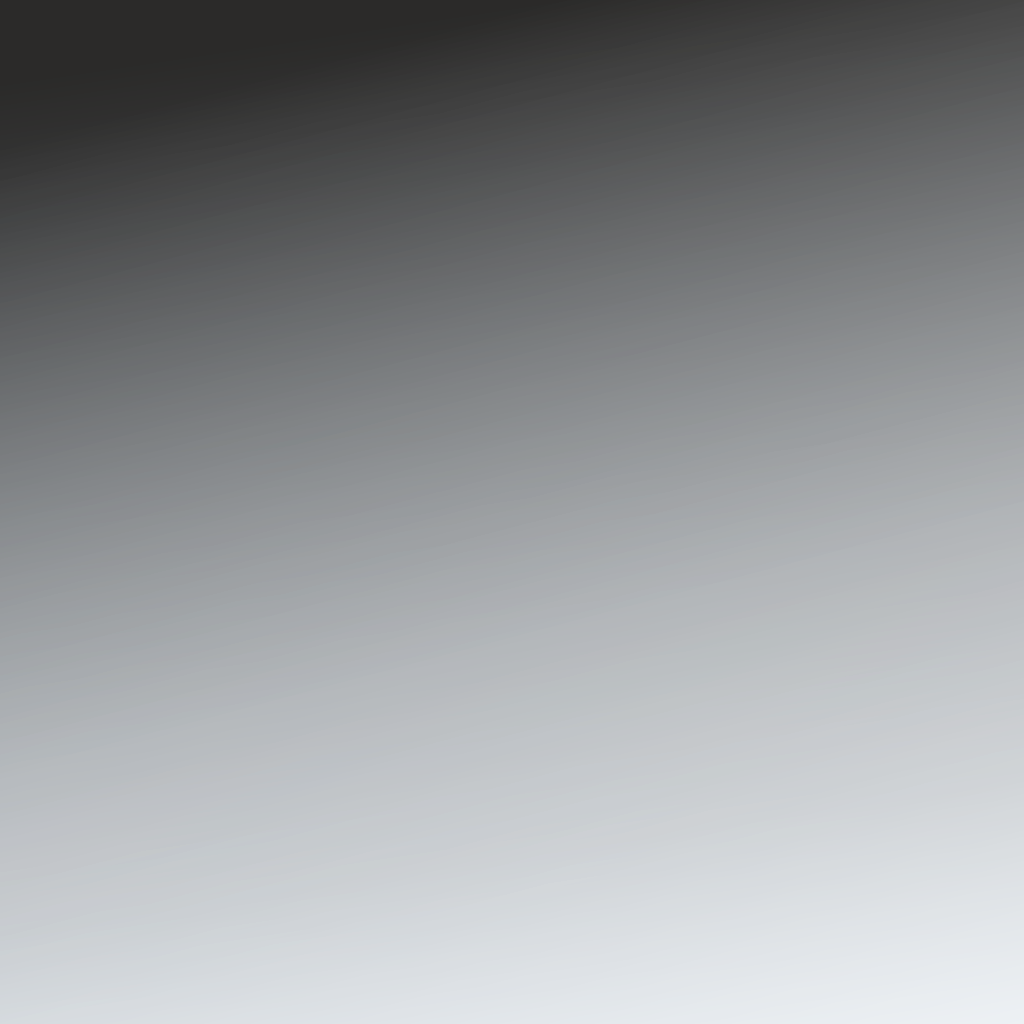
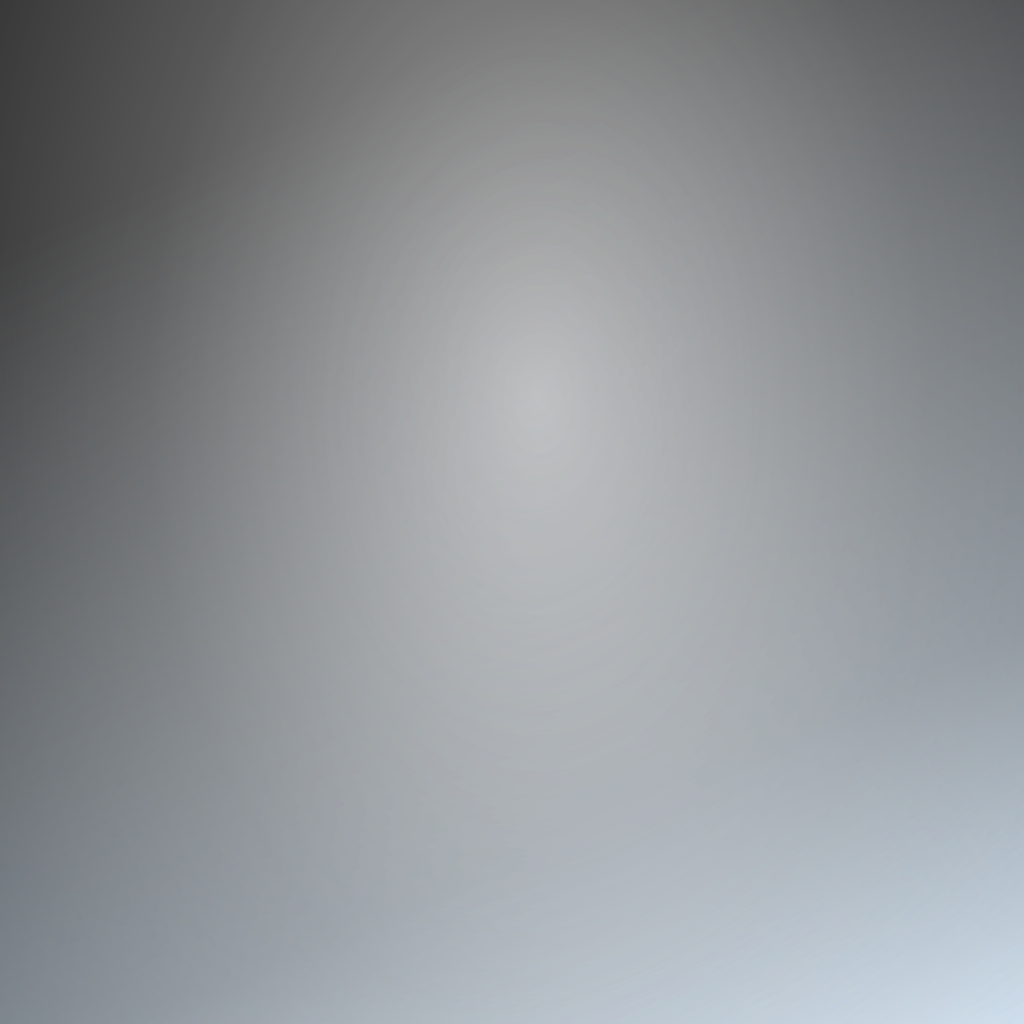
tweaks

diff --git a/window_main/index.css b/window_main/index.css
@@ -56,16 +56,16 @@ span i {
     margin-top: 12px;
     margin-bottom: 12px;
     cursor: pointer;
-    width: 160px;
+    width: 200px;
     height: 32px;
-    border-radius: 6px;
-    color: rgb(99, 79, 53);
+    border-radius: 3px;
+    color: #fae5d2;
     font-size: 18px;
     text-align: center;
     line-height: 32px;
-    border: 1px solid rgba(145, 115, 75, 1);
-    background-color: rgb(195, 172, 130);
-    box-shadow: 0px 2px 5px 0px rgba(0, 0, 0, 0.8);
+    border: 1px solid rgba(250, 226, 210, 0.5);
+    background-color: rgba(145, 121, 97, 0.4);
+    /* box-shadow: 0px 2px 5px 0px rgba(0, 0, 0, 0.8); */
     -webkit-transition: all .1s ease-in;
 }
 
@@ -88,14 +88,15 @@ span i {
 }
 
 .button_simple:hover {
-    background-color: rgb(220, 195, 150);
-    box-shadow: 0px 4px 10px 0px rgba(0, 0, 0, 0.5);
+    background-color: rgba(145, 121, 97, 1);
+    box-shadow: 0px 6px 15px 0px rgba(0, 0, 0, 0.3);
+    border: 1px solid rgba(250, 226, 210, 1);
 }
 
 .button_simple:active {
-    background-color: rgb(220, 195, 150);
+    background-color: rgba(145, 121, 97, 1);
     line-height: 34px;
-    box-shadow: 0px 2px 5px 0px rgba(0, 0, 0, 0.8);
+    box-shadow: 0px 3px 8px 0px rgba(0, 0, 0, 0.6);
 }
 
 .top_username {
@@ -153,6 +154,7 @@ span i {
     background-repeat: no-repeat;
     background-image: url(../images/nav_hover.png);
     -webkit-transition: all .2s ease-in-out;
+    border-bottom: solid 1px rgba(210, 231, 250, 0);
 }
 
 .top_nav_item:hover {
@@ -638,12 +640,14 @@ span i {
 
 .inventory_card_settings_img {
     -webkit-border-radius: 4.75% / 3.5%;
+    box-shadow: 0 5px 14px 2px rgba(0, 0, 0, 0.25);
 }
 
 
 .inventory_card_img {
     cursor: pointer;
     -webkit-border-radius: 4.75% / 3.5%;
+    box-shadow: 0 5px 14px 2px rgba(0, 0, 0, 0.25);
 }
 
 .inventory_card_img:hover {
@@ -869,16 +873,20 @@ span i {
 }
 
 .input_container input {
+    background-color: rgba(145, 121, 97, 0.35);
+    border: 1px solid rgba(250, 229, 210, 0.5);
     display: inline-table;
     margin-left: 16px;
     border-radius: 5px;
-    border-style: hidden;
+    /* border-style: hidden; */
+    color: #fae5d2;
     height: 24px;
     width: 100%;
     font-size: 14px;
     user-select: none;
     font-family: Mplantin;
     padding-left: 4px;
+}
 }
 
 .input_container input:focus {
@@ -909,6 +917,7 @@ span i {
     cursor: pointer;
     font-size: 16px;
     user-select: none;
+    -webkit-transition: all .15s ease-in-out;
 }
 
 .check_container_but {
@@ -949,17 +958,20 @@ span i {
     left: 0;
     height: 20px;
     width: 20px;
-    background-color: #eee;
+    background-color: rgba(145, 121, 97, 0);
+    border: 1px solid rgba(250, 229, 210, 0.5);
+    -webkit-transition: all .15s ease-in-out;
 }
 
 /* On mouse-over, add a grey background color */
 .check_container:hover input ~ .checkmark {
-    background-color: #ccc;
+    background-color: rgba(145, 121, 97, 0.5);
+    border: 1px solid rgba(250, 229, 210, 1);
 }
 
 /* When the checkbox is checked, add a blue background */
 .check_container input:checked ~ .checkmark {
-    background-color: rgba(145, 115, 75, 1);
+    background-color: rgba(145, 121, 97, 1);
 }
 
 /* Create the checkmark/indicator (hidden when not checked) */
@@ -1177,7 +1189,8 @@ span i {
     margin: auto;
     width: 400px;
     height: 160px;
-    background-color: rgba(115, 93, 73, 1);
+    background-color: rgba(145, 121, 97, 0.5);
+    border: 1px solid rgba(250, 229, 210, 0.5);
     border-radius: 5px;
     box-shadow: 0px 2px 16px 0px black;
     -webkit-transition: all .15s cubic-bezier(1, 0.35, 0.35, 1);
@@ -1337,7 +1350,8 @@ span i {
     right: 0;
     bottom: 0;
     left: 0;
-    background-color:  #917961;
+    background-color: rgba(145, 121, 97, 0.2);
+    border: 1px solid rgba(250, 229, 210, 0.5);
     padding: 8px 15px;
     -webkit-transition: all .25s cubic-bezier(0.2, 0.5, 0.35, 1);
 }
@@ -1354,12 +1368,14 @@ span i {
 }
 
 .select-styled:hover {
-    background-color: rgba(250, 229, 210, 0.66);
+    background-color: rgba(145, 121, 97, 0.5);
+    border: 1px solid rgba(250, 229, 210, 1);
 }
 
 .select-styled:active, .select-styled.active {
     border-radius: 6px 6px 0px 0px;
-    background-color: rgba(250, 229, 210, 0.66);
+    border-bottom: 0px;
+    background-color: rgba(145, 121, 97, .5);
 }
 
 
@@ -1369,7 +1385,7 @@ span i {
 }
 
 .select-options {
-    display: none; 
+    display: none;
     position: absolute;
     top: 100%;
     right: 0;
@@ -1378,7 +1394,9 @@ span i {
     margin: 0;
     padding: 0;
     list-style: none;
-    background-color: rgb(115,93,73);
+    background-color: hsla(29, 22%, 30%, 1);
+    border: 1px solid rgba(250, 229, 210, 0.5);
+    border-top: 0px;
     box-shadow: rgba(0, 0, 0, 0.25) 0px 10px 16px 0px;
 }
 
@@ -1386,12 +1404,12 @@ span i {
     margin: 0;
     padding: 7px 0;
     text-indent: 15px;
-    border-top: 1px solid rgb(99, 79, 53);
+    border-top: 1px solid rgba(145, 121, 97, 0.5);
     -webkit-transition: all .25s cubic-bezier(0.2, 0.5, 0.35, 1);
 }
 
 .select-options li:hover {
-    background: rgba(250, 229, 210, 0.66);
+    background: rgba(250, 229, 210, 0.5);
 }
 
 .select-options li[rel="hide"] {
@@ -1408,7 +1426,7 @@ span i {
     text-align: center;
     line-height: 30px;
     width: 190px;
-    border-radius: 4px;
+    border-radius: 3px;
     z-index: 100;
     height: 30px;
     box-shadow: 0 4px 6px 0px rgba(0, 0, 0, 0.3);

diff --git a/window_main/renderer.js b/window_main/renderer.js
@@ -1067,7 +1067,7 @@ function open_deck(i, type) {
 	if (cardsDb.get(tileGrpid).dfc == 'DFC_Front')	dfc = 'b';
 	if (cardsDb.get(tileGrpid).dfc == 'SplitHalf')	dfc = 'a';
 
-	top.css("background-image", "url(https://img.scryfall.com/cards/art_crop/en/"+get_set_scryfall(cardsDb.get(tileGrpid).set)+"/"+cardsDb.get(tileGrpid).cid+dfc+".jpg)");
+	$('.main_wrapper').css("background-image", "url(https://img.scryfall.com/cards/art_crop/en/"+get_set_scryfall(cardsDb.get(tileGrpid).set)+"/"+cardsDb.get(tileGrpid).cid+dfc+".jpg)");
 	var fld = $('<div class="flex_item"></div>');
 
 	var dl = $('<div class="decklist"></div>');
@@ -1453,7 +1453,7 @@ function open_draft(id, tileGrpid, set) {
 	var top = $('<div class="decklist_top"><div class="button back"></div><div class="deck_name">'+set+' Draft</div></div>');
 	flr = $('<div class="flex_item" style="align-self: center;"></div>');
 	top.append(flr);
-	top.css("background-image", "url(https://img.scryfall.com/cards/art_crop/en/"+get_set_scryfall(cardsDb.get(tileGrpid).set)+"/"+cardsDb.get(tileGrpid).cid+".jpg)");
+	$('.main_wrapper').css("background-image", "url(https://img.scryfall.com/cards/art_crop/en/"+get_set_scryfall(cardsDb.get(tileGrpid).set)+"/"+cardsDb.get(tileGrpid).cid+".jpg)");
 
 	var cont = $('<div class="flex_item" style="flex-direction: column;"></div>');
     cont.append('<div class="draft_nav_container"><div class="draft_nav_prev"></div><div class="draft_nav_next"></div></div>');
@@ -1547,7 +1547,7 @@ function open_match(id) {
 
 
 	var tileGrpid = match.playerDeck.deckTileId;
-	top.css("background-image", "url(https://img.scryfall.com/cards/art_crop/en/"+get_set_scryfall(cardsDb.get(tileGrpid).set)+"/"+cardsDb.get(tileGrpid).cid+".jpg)");
+	$('.main_wrapper').css("background-image", "url(https://img.scryfall.com/cards/art_crop/en/"+get_set_scryfall(cardsDb.get(tileGrpid).set)+"/"+cardsDb.get(tileGrpid).cid+".jpg)");
 	var fld = $('<div class="flex_item"></div>');
 
 	// this is a mess
@@ -1985,7 +1985,7 @@ function open_cards() {
 
 //
 function add_checkbox_search(div, label, iid, def) {
-	var label = $('<label class="check_container">'+label+'</label>');
+	var label = $('<label class="check_container hover_label">'+label+'</label>');
 	var check_new = $('<input type="checkbox" id="'+iid+'" />');
 	check_new.appendTo(label);
 	check_new.prop('checked', def);
@@ -2058,7 +2058,7 @@ function printStats() {
 	stats = get_collection_stats();
 
 	var top = $('<div class="decklist_top"><div class="button back"></div><div class="deck_name">Collection Statistics</div></div>');
-	top.css("background-image", "url(http://www.artofmtg.com/wp-content/uploads/2018/04/Urzas-Tome-Dominaria-MtG-Art.jpg)");
+	$('.main_wrapper').css("background-image", "url(http://www.artofmtg.com/wp-content/uploads/2018/04/Urzas-Tome-Dominaria-MtG-Art.jpg)");
 	
 	flex = $('<div class="flex_item"></div>');
 	mainstats = $('<div class="main_stats"></div>');
@@ -2431,7 +2431,7 @@ function setCollectionPage(page) {
 
 //
 function add_checkbox(div, label, iid, def) {
-	var label = $('<label class="check_container">'+label+'</label>');
+	var label = $('<label class="check_container hover_label">'+label+'</label>');
 	label.appendTo(div);
 	var check_new = $('<input type="checkbox" id="'+iid+'" onclick="updateSettings()" />');
 	check_new.appendTo(label);

diff --git a/shared/shared.css b/shared/shared.css
@@ -17,8 +17,17 @@ body {
 
 label {
     font-family: "Mplantin";
-    color: #FAE5D2;
+    color: rgba(250, 229, 210, 1);
     margin: auto 0;
+}
+
+
+.hover_label {
+    color: rgba(250, 229, 210, 0.8) !important;
+}
+
+.hover_label:hover {
+    color: rgba(255, 255, 255, 1) !important;
 }
 
 @font-face {
@@ -65,7 +74,7 @@ label {
     background-color: #B7C89E;
     overflow: hidden;
     width: 100%;
-    height: 8px;
+    height: 4px;
     animation-name: color;
     animation-duration: 2s;
     animation-iteration-count: infinite;
@@ -165,8 +174,17 @@ label {
 }
 
 .main_wrapper {
-    height: 100%;
-    z-index: -5;
+    background: url(../images/Ghitu-Lavarunner-Dominaria-MtG-Art.jpg);
+    position: absolute;
+    overflow: hidden;
+    background-color: rgba(0, 0, 0, 0.25);
+    background-blend-mode: darken;
+    background-size: cover;
+    background-position: center;
+    opacity: 1;
+    z-index: 5;
+    height: calc(100% - 4px);
+    width: calc(100% - 4px);
 }
 
 .wrapper {
@@ -190,32 +208,20 @@ label {
     width: calc(100% - 4px);
 }
 
-.main_wrapper:before, .overlay_wrapper:before {
-    background: url(../images/Ghitu-Lavarunner-Dominaria-MtG-Art.jpg);
-    /*background: url(../images/Mox-Amber-Dominaria-MtG-Art.jpg);*/
-    content: ' ';
-    width: calc(100% - 4px);
-    position: absolute;
-    height: calc(100% - 4px);
-    overflow: hidden;
-    background-size: cover;
-    background-position: center;
-    opacity: 0.5;
-    z-index: -5;
-}
 
 .main_wrapper:after, .overlay_wrapper:after {
     background: url(../images/background_overlay.png);
     content: ' ';
-    top: 2px;
-    left: 2px;
-    width: calc(100% - 4px);
-    height: calc(100% - 4px);
+    top: 0;
+    left: 0;
+    width: calc(100% - 0px);
+    height: calc(100% - 0px);
     position: absolute;
+    /* background-color: red; */
     background-size: 100% 100%;
-    opacity: 0.9;
-    z-index: -4;
-    filter: hue-rotate(200deg);
+    /* opacity: 0.9; */
+    /* z-index: -4; */
+    /* filter: hue-rotate(200deg); */
 }
 
 .top {
@@ -330,9 +336,11 @@ label {
 }
 
 .mana_20 {
-    width: 20px;
-    height: 20px;
+    width: 18px;
+    height: 18px;
     margin: 2px;
+    border-radius: 100%;
+    box-shadow: rgba(0, 0, 0, 0.75) -2px 2px;
 }
 
 .mana_16 {
@@ -492,14 +500,14 @@ span {
 }
 
 .card_tile_separator {
-    color: rgba(255, 255, 255, 0.8);
+    color: rgba(250, 229, 210, 1);
     height: 32px;
     vertical-align: middle;
-    line-height: 32px;k,
-    font-size: 15px;
+    line-height: 32px;
     text-align: center;
     font-family: beleren;
     align-self: center;
+    background: linear-gradient(90deg, rgba(0, 0, 0, 0), rgba(0, 0, 0, 0.5), rgba(0, 0, 0, 0));
 }
 
 .card_tile_name {
